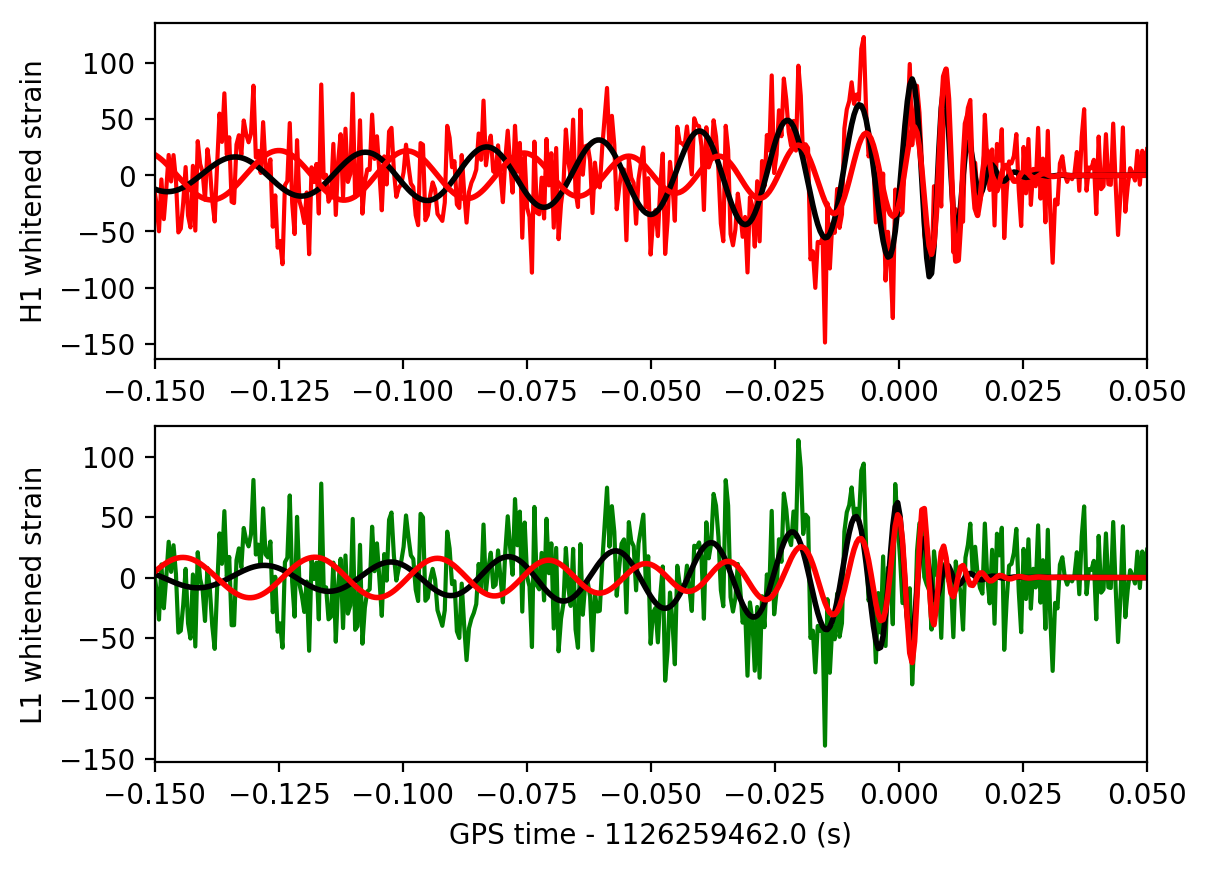
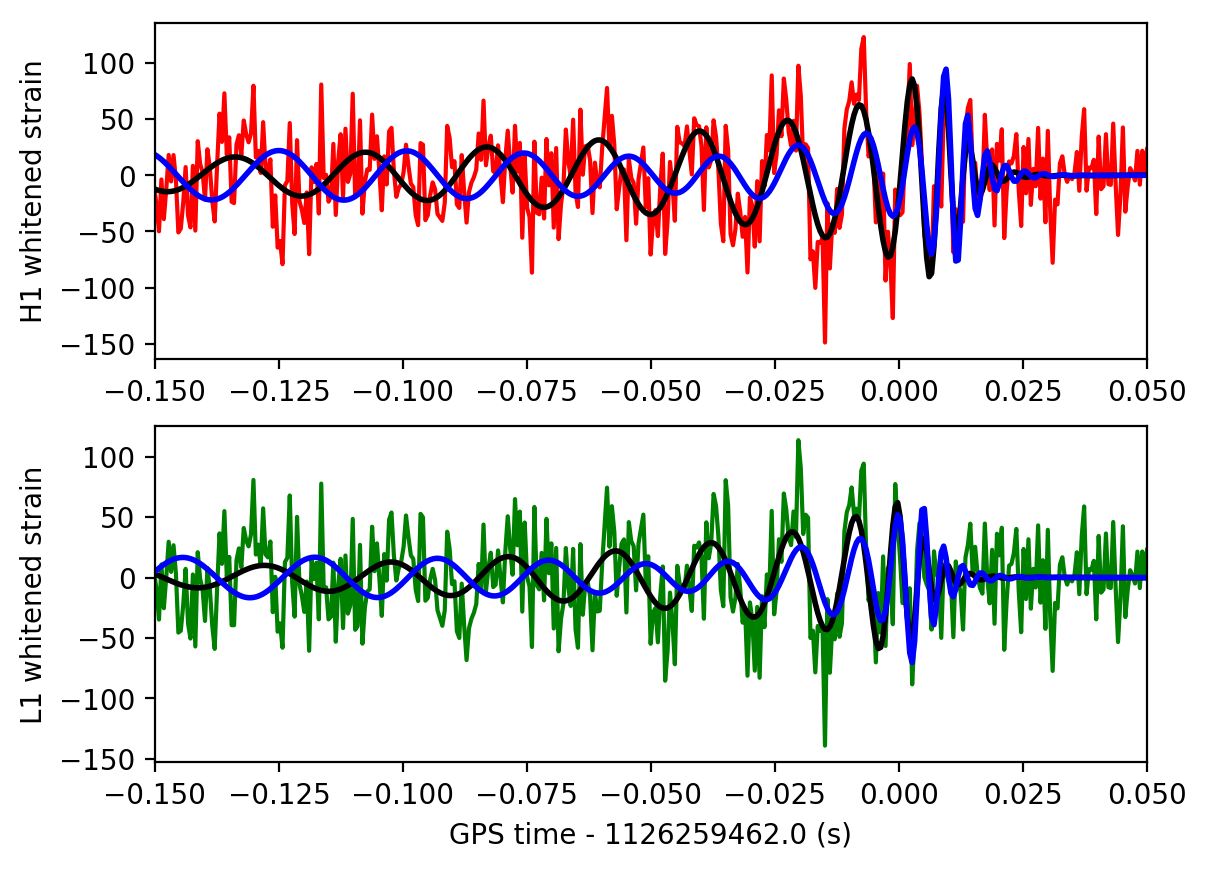
Testing other colours

diff --git a/Inference/whitened_overlay.py b/Inference/whitened_overlay.py
@@ -151,7 +151,7 @@ for ifo in ['H1', 'L1']:
             fi = fi[:len(psd)]
         fi /= psd
         ti = fi.to_timeseries()
-    ax.plot(ins.sample_times.numpy()-gps_time, ins.data, 'r', lw=2, zorder=2)
+    ax.plot(ins.sample_times.numpy()-gps_time, ins.data, 'b-', lw=2, zorder=2)
 
     ax.set_xlim(xmin, xmax)
     ax.set_ylim(ylim)
